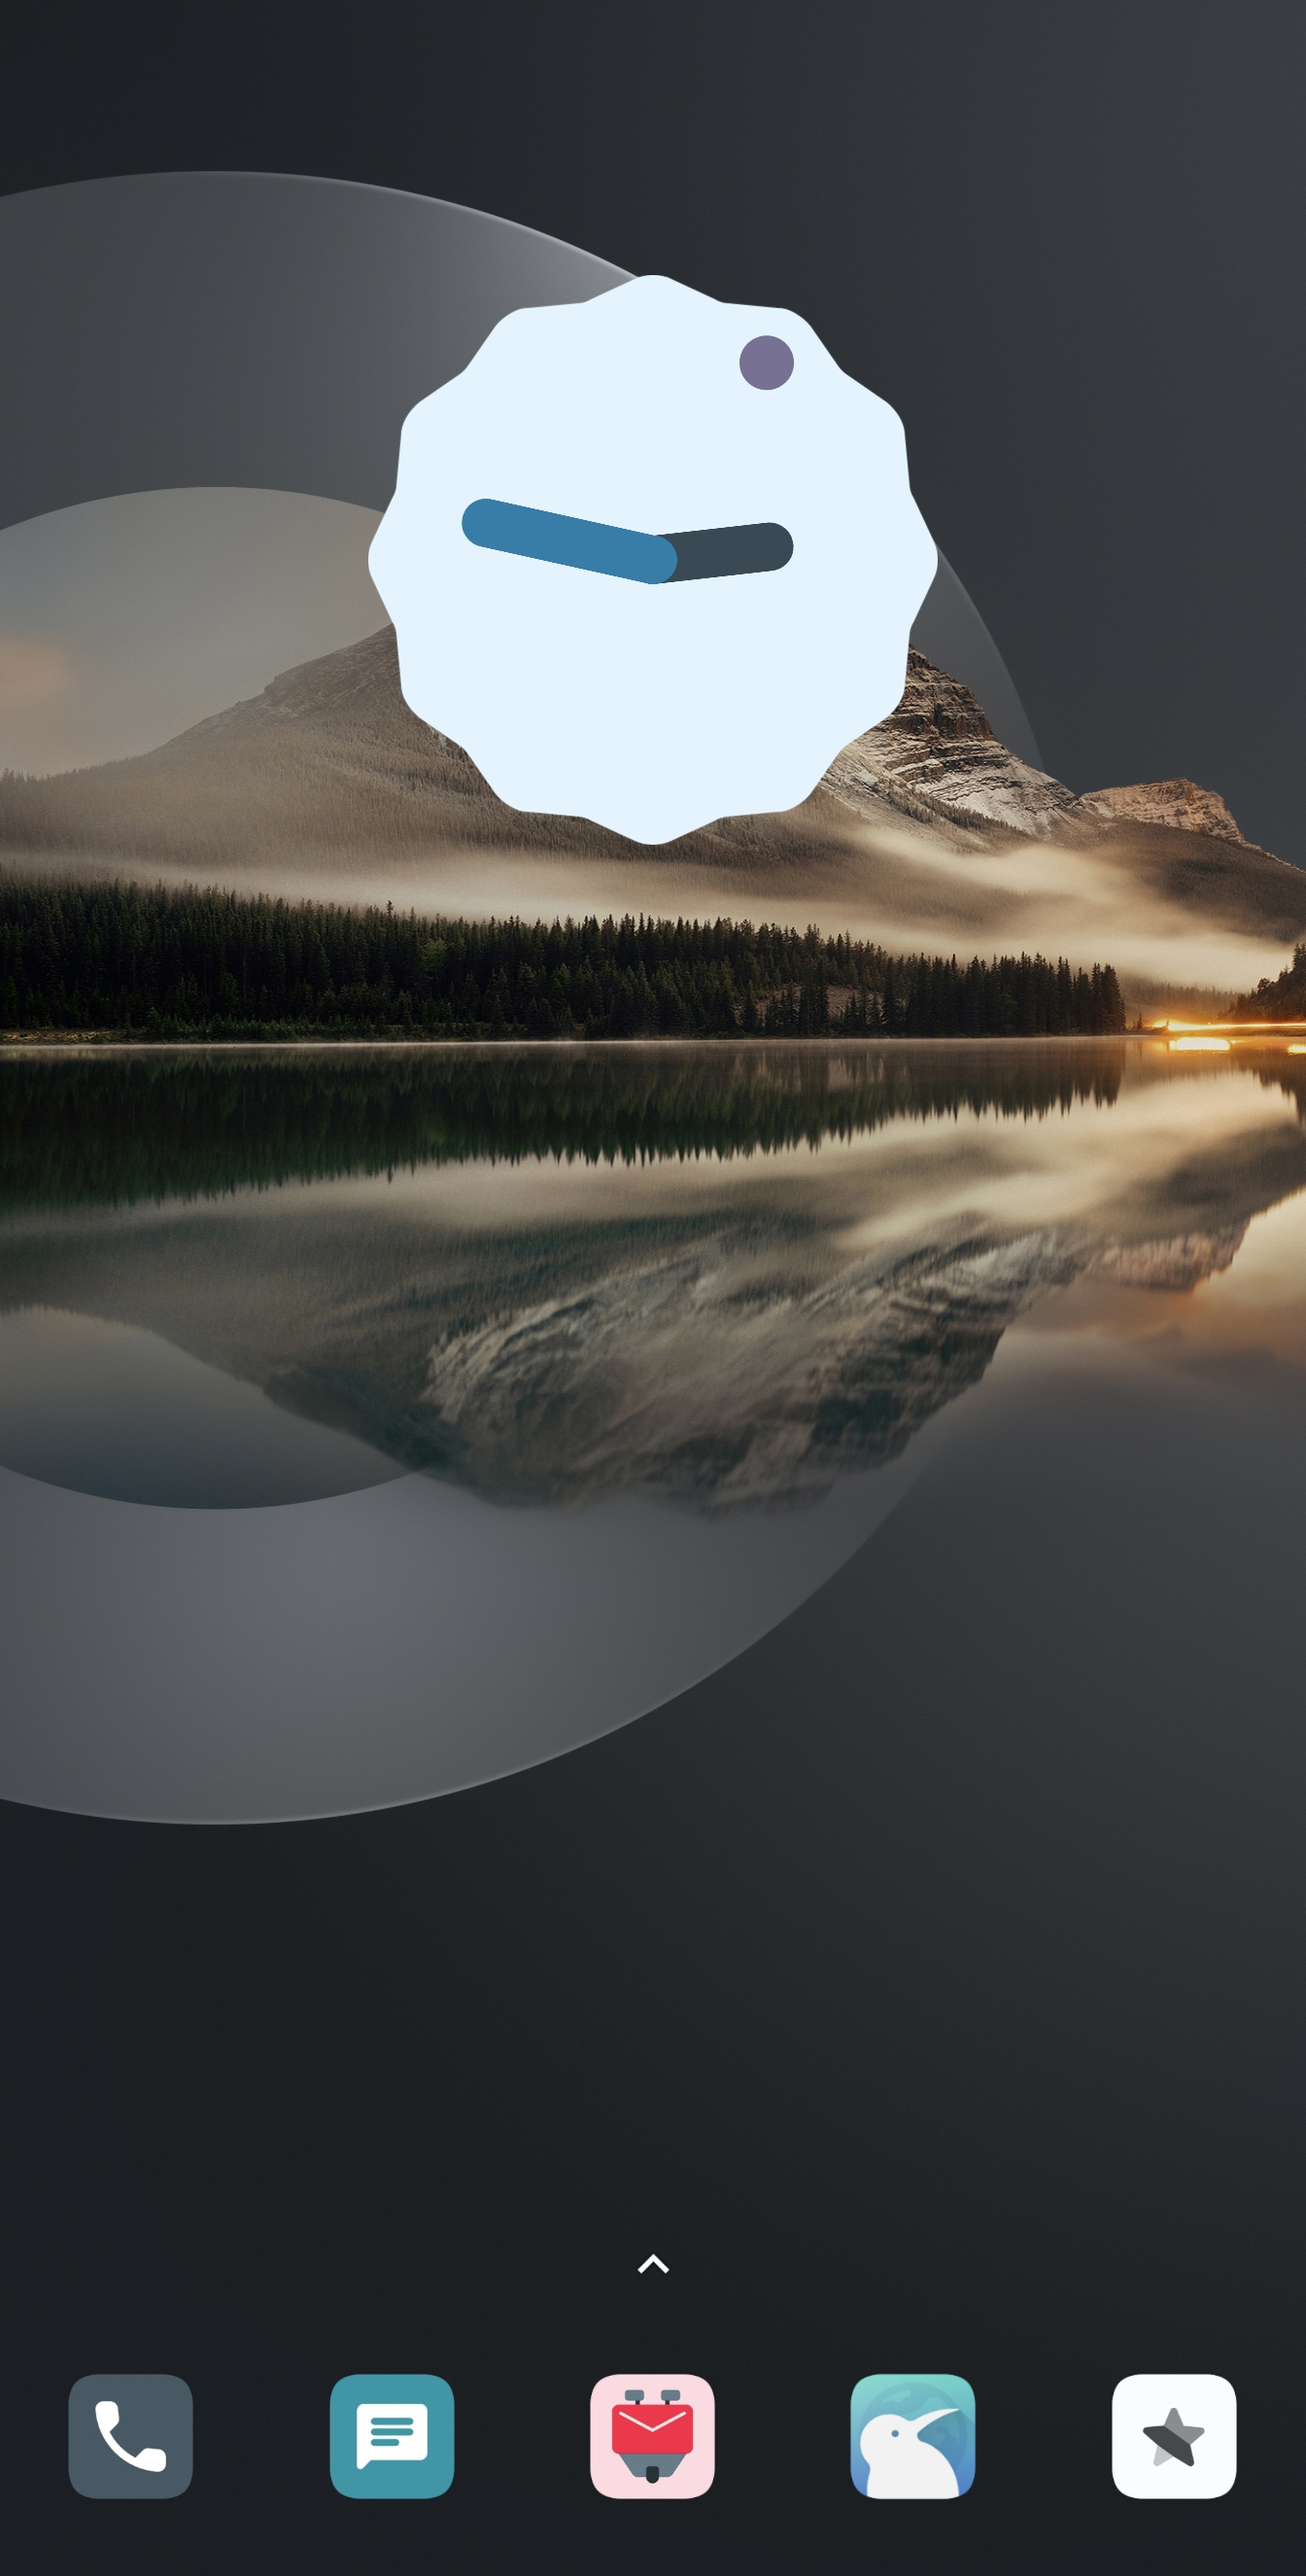
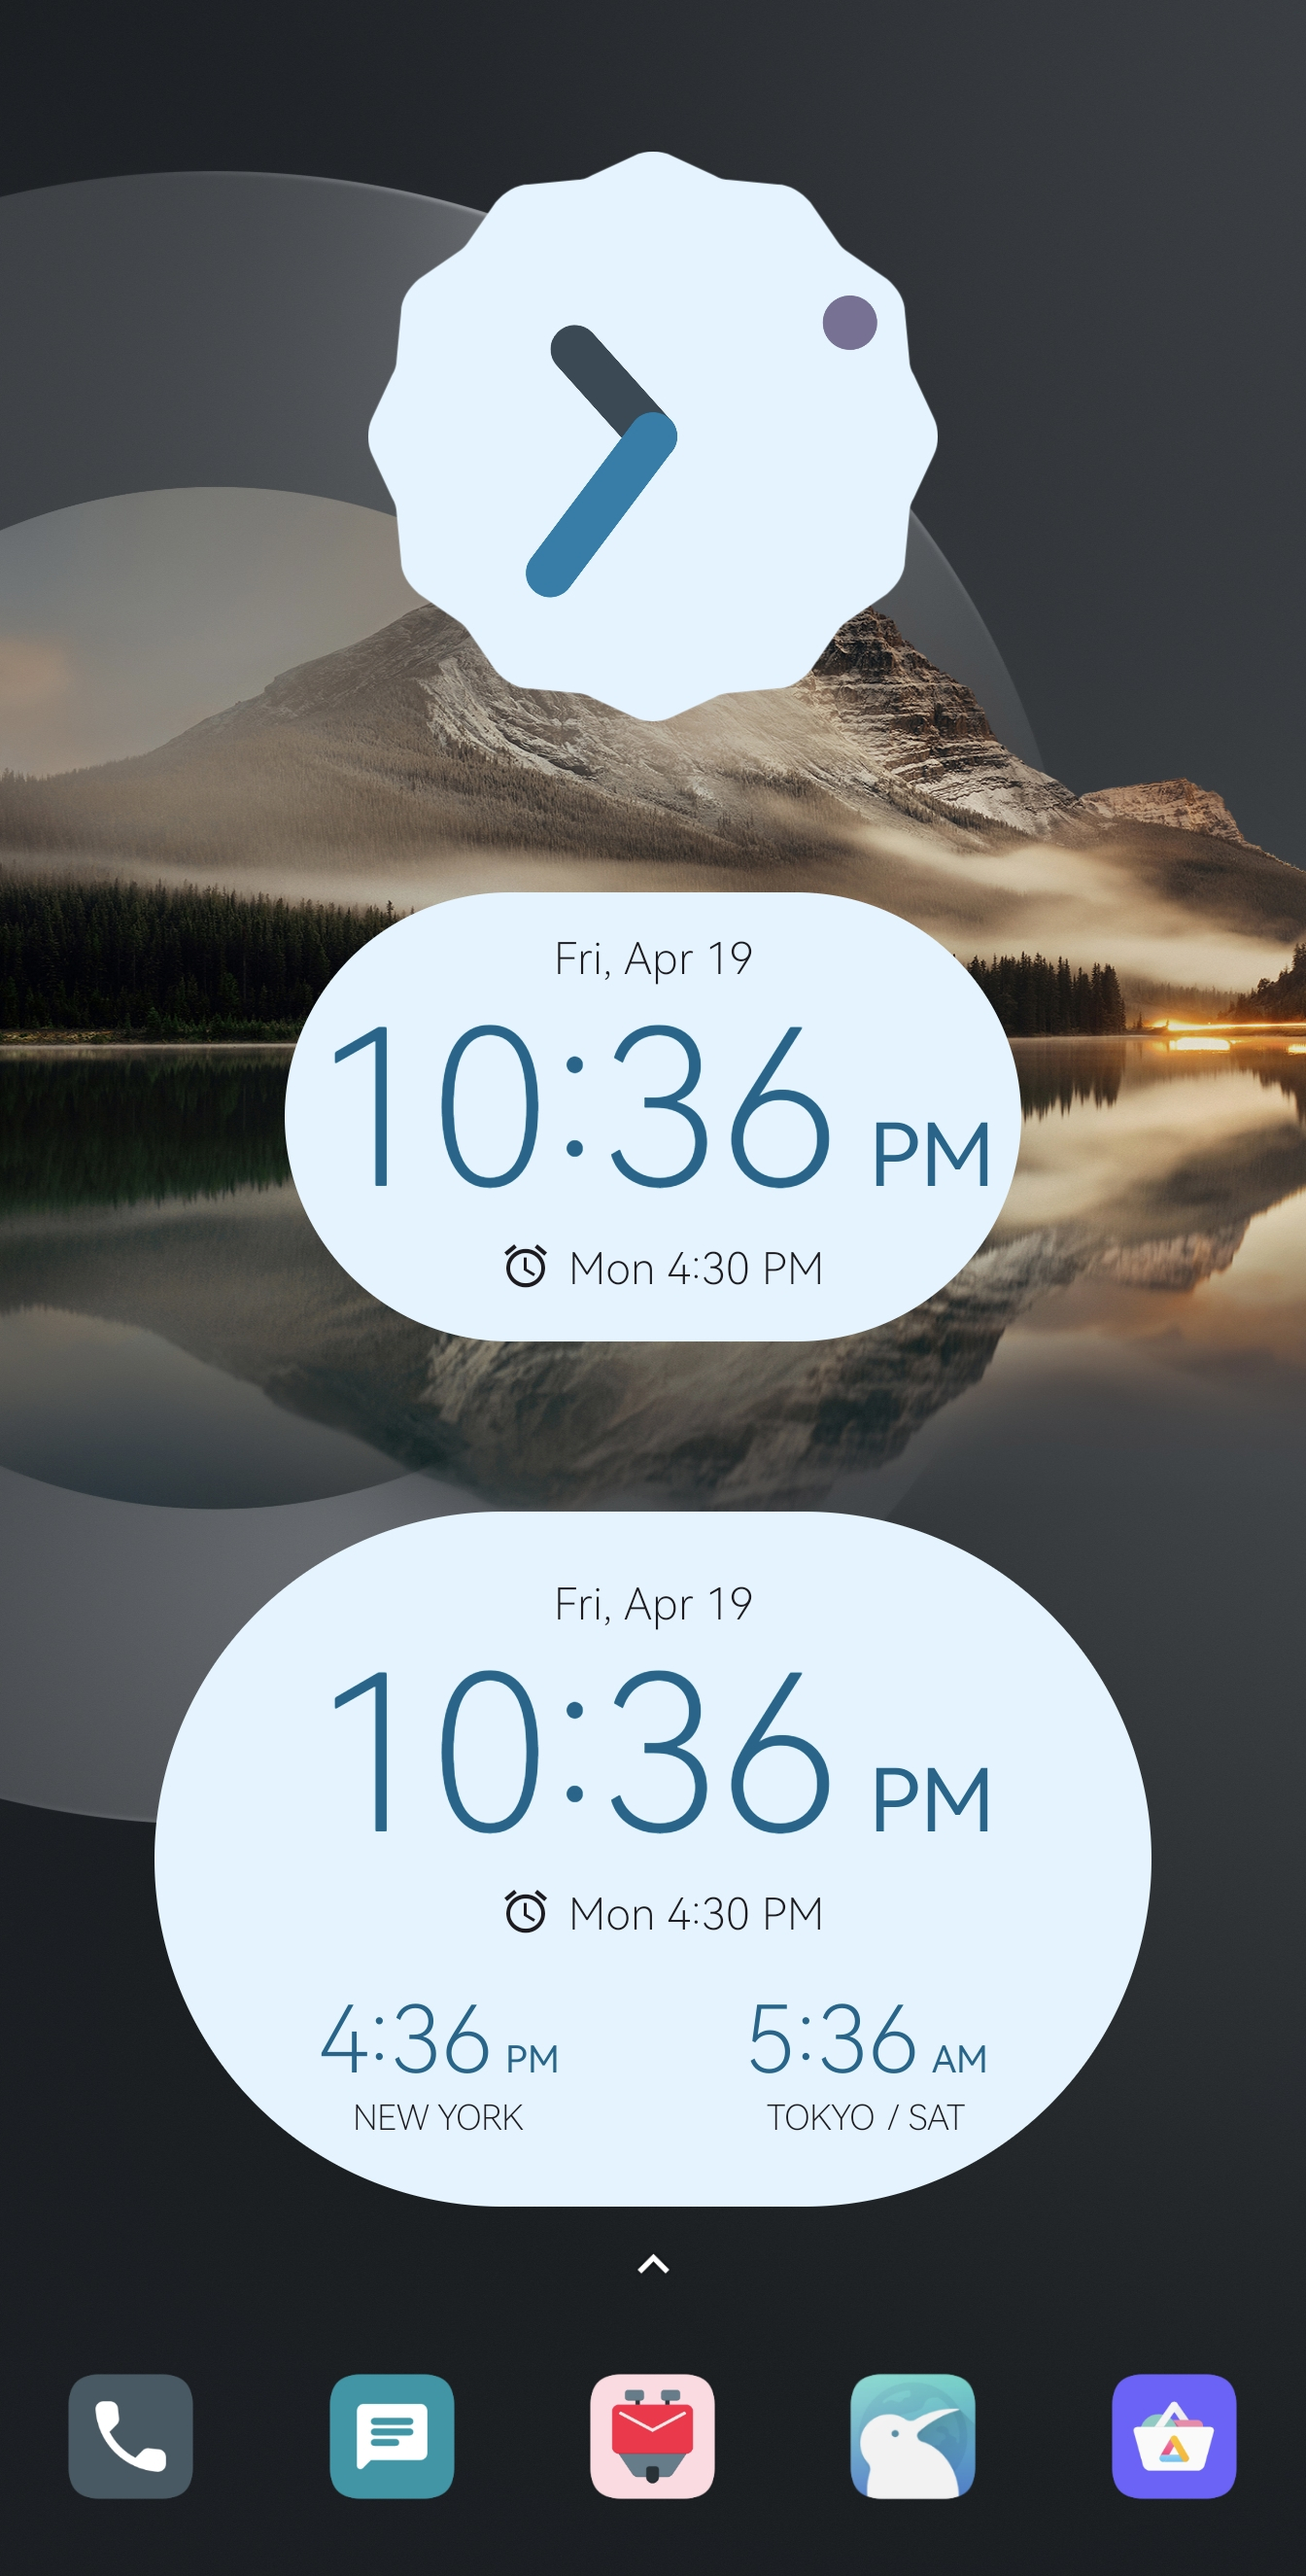
Add Material You digital widget

diff --git a/app/src/main/java/com/best/alarmclock/DigitalAppWidgetMaterialYouProvider.java b/app/src/main/java/com/best/alarmclock/DigitalAppWidgetMaterialYouProvider.java
@@ -17,8 +17,6 @@
 package com.best.alarmclock;
 
 import static android.app.AlarmManager.ACTION_NEXT_ALARM_CLOCK_CHANGED;
-import static android.app.PendingIntent.FLAG_NO_CREATE;
-import static android.app.PendingIntent.FLAG_UPDATE_CURRENT;
 import static android.appwidget.AppWidgetManager.OPTION_APPWIDGET_MAX_HEIGHT;
 import static android.appwidget.AppWidgetManager.OPTION_APPWIDGET_MAX_WIDTH;
 import static android.appwidget.AppWidgetManager.OPTION_APPWIDGET_MIN_HEIGHT;
@@ -31,12 +29,10 @@ import static android.util.TypedValue.COMPLEX_UNIT_PX;
 import static android.view.View.GONE;
 import static android.view.View.MeasureSpec.UNSPECIFIED;
 import static android.view.View.VISIBLE;
-import static com.best.deskclock.data.DataModel.ACTION_WORLD_CITIES_CHANGED;
 import static java.lang.Math.max;
 import static java.lang.Math.round;
 
 import android.annotation.SuppressLint;
-import android.app.AlarmManager;
 import android.app.PendingIntent;
 import android.appwidget.AppWidgetManager;
 import android.appwidget.AppWidgetProvider;
@@ -47,12 +43,10 @@ import android.content.Intent;
 import android.content.IntentFilter;
 import android.content.res.Resources;
 import android.graphics.Bitmap;
-import android.net.Uri;
 import android.os.Build;
 import android.os.Bundle;
 import android.text.TextUtils;
 import android.text.format.DateFormat;
-import android.util.ArraySet;
 import android.view.LayoutInflater;
 import android.view.View;
 import android.widget.RemoteViews;
@@ -65,18 +59,11 @@ import com.best.deskclock.DeskClock;
 import com.best.deskclock.LogUtils;
 import com.best.deskclock.R;
 import com.best.deskclock.Utils;
-import com.best.deskclock.data.City;
 import com.best.deskclock.data.DataModel;
 import com.best.deskclock.uidata.UiDataModel;
-import com.best.deskclock.worldclock.CitySelectionActivity;
 
 import java.util.Calendar;
-import java.util.Date;
-import java.util.List;
 import java.util.Locale;
-import java.util.Objects;
-import java.util.Set;
-import java.util.TimeZone;
 
 /**
  * <p>This provider produces a widget resembling one of the formats below.</p>
@@ -97,22 +84,10 @@ import java.util.TimeZone;
  * any clipping. To do so it measures layouts offscreen using a range of font sizes in order to
  * choose optimal values.
  */
-public class DigitalAppWidgetProvider extends AppWidgetProvider {
+public class DigitalAppWidgetMaterialYouProvider extends AppWidgetProvider {
 
-    private static final LogUtils.Logger LOGGER = new LogUtils.Logger("DigitalWidgetProvider");
+    private static final LogUtils.Logger LOGGER = new LogUtils.Logger("DigitalWidgetMaterialYouProvider");
     private static boolean sReceiversRegistered;
-
-    /**
-     * Intent action used for refreshing a world city display when any of them changes days or when
-     * the default TimeZone changes days. This affects the widget display because the day-of-week is
-     * only visible when the world city day-of-week differs from the default TimeZone's day-of-week.
-     */
-    private static final String ACTION_ON_DAY_CHANGE = "com.best.deskclock.ON_DAY_CHANGE";
-
-    /**
-     * Intent used to deliver the {@link #ACTION_ON_DAY_CHANGE} callback.
-     */
-    private static final Intent DAY_CHANGE_INTENT = new Intent(ACTION_ON_DAY_CHANGE);
 
     /**
      * Compute optimal font and icon sizes offscreen for both portrait and landscape orientations
@@ -123,7 +98,6 @@ public class DigitalAppWidgetProvider extends AppWidgetProvider {
         final RemoteViews landscape = relayoutWidget(context, wm, widgetId, options, false);
         final RemoteViews widget = new RemoteViews(landscape, portrait);
         wm.updateAppWidget(widgetId, widget);
-        wm.notifyAppWidgetViewDataChanged(widgetId, R.id.world_city_list);
     }
 
     /**
@@ -133,7 +107,7 @@ public class DigitalAppWidgetProvider extends AppWidgetProvider {
                                               Bundle options, boolean portrait) {
         // Create a remote view for the digital clock.
         final String packageName = context.getPackageName();
-        final RemoteViews rv = new RemoteViews(packageName, R.layout.digital_widget);
+        final RemoteViews rv = new RemoteViews(packageName, R.layout.digital_widget_material_you);
 
         rv.setCharSequence(R.id.clock, "setFormat12Hour", Utils.get12ModeFormat(context, 0.4f, false));
         rv.setCharSequence(R.id.clock, "setFormat24Hour", Utils.get24ModeFormat(context, false));
@@ -142,7 +116,7 @@ public class DigitalAppWidgetProvider extends AppWidgetProvider {
         if (Utils.isWidgetClickable(wm, widgetId)) {
             final Intent openApp = new Intent(context, DeskClock.class);
             final PendingIntent pi = PendingIntent.getActivity(context, 0, openApp, PendingIntent.FLAG_IMMUTABLE);
-            rv.setOnClickPendingIntent(R.id.digital_widget, pi);
+            rv.setOnClickPendingIntent(R.id.digital_widget_material_you, pi);
         }
 
         // Configure child views of the remote view.
@@ -173,6 +147,7 @@ public class DigitalAppWidgetProvider extends AppWidgetProvider {
         final int maxHeightPx = (int) (density * options.getInt(OPTION_APPWIDGET_MAX_HEIGHT));
         final int targetWidthPx = portrait ? minWidthPx : maxWidthPx;
         final int targetHeightPx = portrait ? maxHeightPx : minHeightPx;
+
         final int largestClockFontSizePx = Utils.toPixel(75, context);
 
         // Create a size template that describes the widget bounds.
@@ -190,26 +165,6 @@ public class DigitalAppWidgetProvider extends AppWidgetProvider {
         rv.setTextViewTextSize(R.id.nextAlarm, COMPLEX_UNIT_PX, sizes.mFontSizePx);
         rv.setTextViewTextSize(R.id.clock, COMPLEX_UNIT_PX, sizes.mClockFontSizePx);
 
-        final int smallestWorldCityListSizePx = Utils.toPixel(80, context);
-        if (sizes.getListHeight() <= smallestWorldCityListSizePx) {
-            // Insufficient space; hide the world city list.
-            rv.setViewVisibility(R.id.world_city_list, GONE);
-        } else {
-            // Set an adapter on the world city list. That adapter connects to a Service via intent.
-            final Intent intent = new Intent(context, DigitalAppWidgetCityService.class);
-            intent.putExtra(AppWidgetManager.EXTRA_APPWIDGET_ID, widgetId);
-            intent.setData(Uri.parse(intent.toUri(Intent.URI_INTENT_SCHEME)));
-            rv.setRemoteAdapter(R.id.world_city_list, intent);
-            rv.setViewVisibility(R.id.world_city_list, VISIBLE);
-
-            // Tapping on the widget opens the city selection activity (if not on the lock screen).
-            if (Utils.isWidgetClickable(wm, widgetId)) {
-                final Intent selectCity = new Intent(context, CitySelectionActivity.class);
-                final PendingIntent pi = PendingIntent.getActivity(context, 0, selectCity, PendingIntent.FLAG_IMMUTABLE);
-                rv.setPendingIntentTemplate(R.id.world_city_list, pi);
-            }
-        }
-
         return rv;
     }
 
@@ -220,7 +175,7 @@ public class DigitalAppWidgetProvider extends AppWidgetProvider {
     private static Sizes optimizeSizes(Context context, Sizes template, String nextAlarmTime) {
         // Inflate a test layout to compute sizes at different font sizes.
         final LayoutInflater inflater = LayoutInflater.from(context);
-        @SuppressLint("InflateParams") final View sizer = inflater.inflate(R.layout.digital_widget_sizer, null);
+        @SuppressLint("InflateParams") final View sizer = inflater.inflate(R.layout.digital_widget_material_you_sizer, null);
 
         // Configure the date to display the current date string.
         final CharSequence dateFormat = getDateFormat(context);
@@ -269,10 +224,6 @@ public class DigitalAppWidgetProvider extends AppWidgetProvider {
         }
 
         return low;
-    }
-
-    private static AlarmManager getAlarmManager(Context context) {
-        return (AlarmManager) context.getSystemService(Context.ALARM_SERVICE);
     }
 
     /**
@@ -345,17 +296,11 @@ public class DigitalAppWidgetProvider extends AppWidgetProvider {
     @Override
     public void onEnabled(Context context) {
         super.onEnabled(context);
-
-        // Schedule the day-change callback if necessary.
-        updateDayChangeCallback(context);
     }
 
     @Override
     public void onDisabled(Context context) {
         super.onDisabled(context);
-
-        // Remove any scheduled day-change callback.
-        removeDayChangeCallback(context);
     }
 
     @Override
@@ -377,8 +322,6 @@ public class DigitalAppWidgetProvider extends AppWidgetProvider {
             case ACTION_LOCALE_CHANGED:
             case ACTION_TIME_CHANGED:
             case ACTION_TIMEZONE_CHANGED:
-            case ACTION_ON_DAY_CHANGE:
-            case ACTION_WORLD_CITIES_CHANGED:
             case ACTION_CONFIGURATION_CHANGED:
                 for (int widgetId : widgetIds) {
                     relayoutWidget(context, wm, widgetId, wm.getAppWidgetOptions(widgetId));
@@ -387,10 +330,6 @@ public class DigitalAppWidgetProvider extends AppWidgetProvider {
 
         final DataModel dm = DataModel.getDataModel();
         dm.updateWidgetCount(getClass(), widgetIds.length, R.string.category_digital_widget);
-
-        if (widgetIds.length > 0) {
-            updateDayChangeCallback(context);
-        }
     }
 
     /**
@@ -410,8 +349,6 @@ public class DigitalAppWidgetProvider extends AppWidgetProvider {
     private static void registerReceivers(Context context, BroadcastReceiver receiver) {
         if (sReceiversRegistered) return;
         IntentFilter intentFilter = new IntentFilter();
-        intentFilter.addAction(ACTION_WORLD_CITIES_CHANGED);
-        intentFilter.addAction(ACTION_ON_DAY_CHANGE);
         intentFilter.addAction(ACTION_CONFIGURATION_CHANGED);
         if (Build.VERSION.SDK_INT >= Build.VERSION_CODES.TIRAMISU) {
             context.getApplicationContext().registerReceiver(receiver, intentFilter, Context.RECEIVER_NOT_EXPORTED);
@@ -430,49 +367,6 @@ public class DigitalAppWidgetProvider extends AppWidgetProvider {
 
         // scale the fonts of the clock to fit inside the new size
         relayoutWidget(context, AppWidgetManager.getInstance(context), widgetId, options);
-    }
-
-    /**
-     * Remove the existing day-change callback if it is not needed (no selected cities exist).
-     * Add the day-change callback if it is needed (selected cities exist).
-     */
-    private void updateDayChangeCallback(Context context) {
-        final DataModel dm = DataModel.getDataModel();
-        final List<City> selectedCities = dm.getSelectedCities();
-        final boolean showHomeClock = dm.getShowHomeClock();
-        if (selectedCities.isEmpty() && !showHomeClock) {
-            // Remove the existing day-change callback.
-            removeDayChangeCallback(context);
-            return;
-        }
-
-        // Look up the time at which the next day change occurs across all timezones.
-        final Set<TimeZone> zones = new ArraySet<>(selectedCities.size() + 2);
-        zones.add(TimeZone.getDefault());
-        if (showHomeClock) {
-            zones.add(dm.getHomeCity().getTimeZone());
-        }
-        for (City city : selectedCities) {
-            zones.add(city.getTimeZone());
-        }
-        final Date nextDay = Utils.getNextDay(new Date(), zones);
-
-        // Schedule the next day-change callback; at least one city is displayed.
-        final PendingIntent pi =
-                PendingIntent.getBroadcast(context, 0, DAY_CHANGE_INTENT, FLAG_UPDATE_CURRENT | PendingIntent.FLAG_IMMUTABLE);
-        getAlarmManager(context).setExact(AlarmManager.RTC, Objects.requireNonNull(nextDay).getTime(), pi);
-    }
-
-    /**
-     * Remove the existing day-change callback.
-     */
-    private void removeDayChangeCallback(Context context) {
-        final PendingIntent pi =
-                PendingIntent.getBroadcast(context, 0, DAY_CHANGE_INTENT, FLAG_NO_CREATE | PendingIntent.FLAG_IMMUTABLE);
-        if (pi != null) {
-            getAlarmManager(context).cancel(pi);
-            pi.cancel();
-        }
     }
 
     /**
@@ -533,13 +427,6 @@ public class DigitalAppWidgetProvider extends AppWidgetProvider {
             mFontSizePx = max(1, round(clockFontSizePx / 5f));
             mIconFontSizePx = (int) (mFontSizePx * 1.4f);
             mIconPaddingPx = mFontSizePx / 3;
-        }
-
-        /**
-         * @return the amount of widget height available to the world cities list
-         */
-        private int getListHeight() {
-            return mTargetHeightPx - mMeasuredHeightPx;
         }
 
         private boolean hasViolations() {
